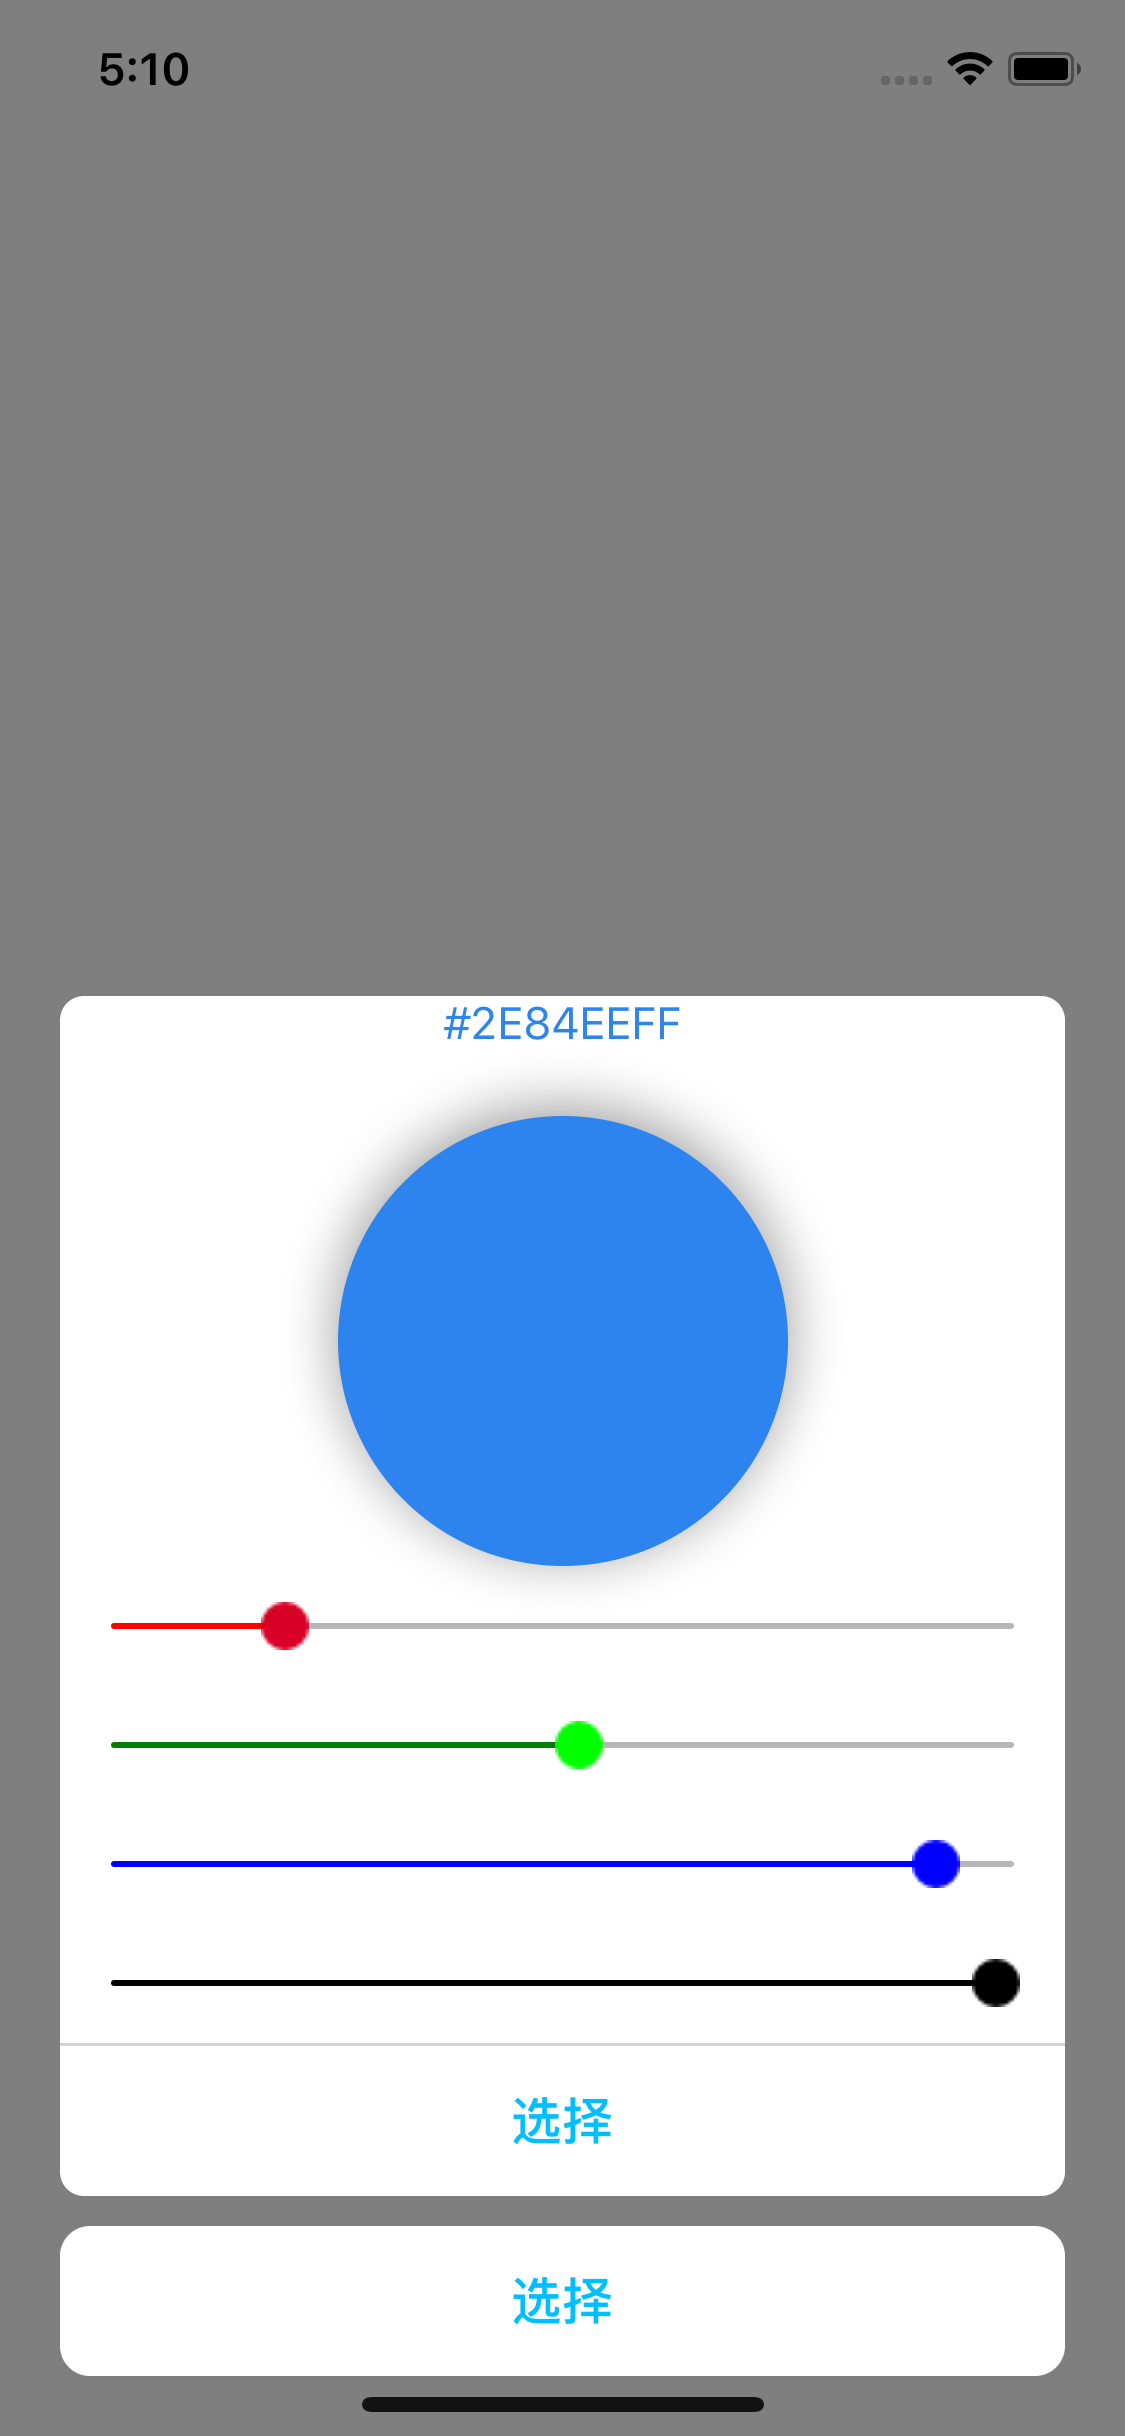
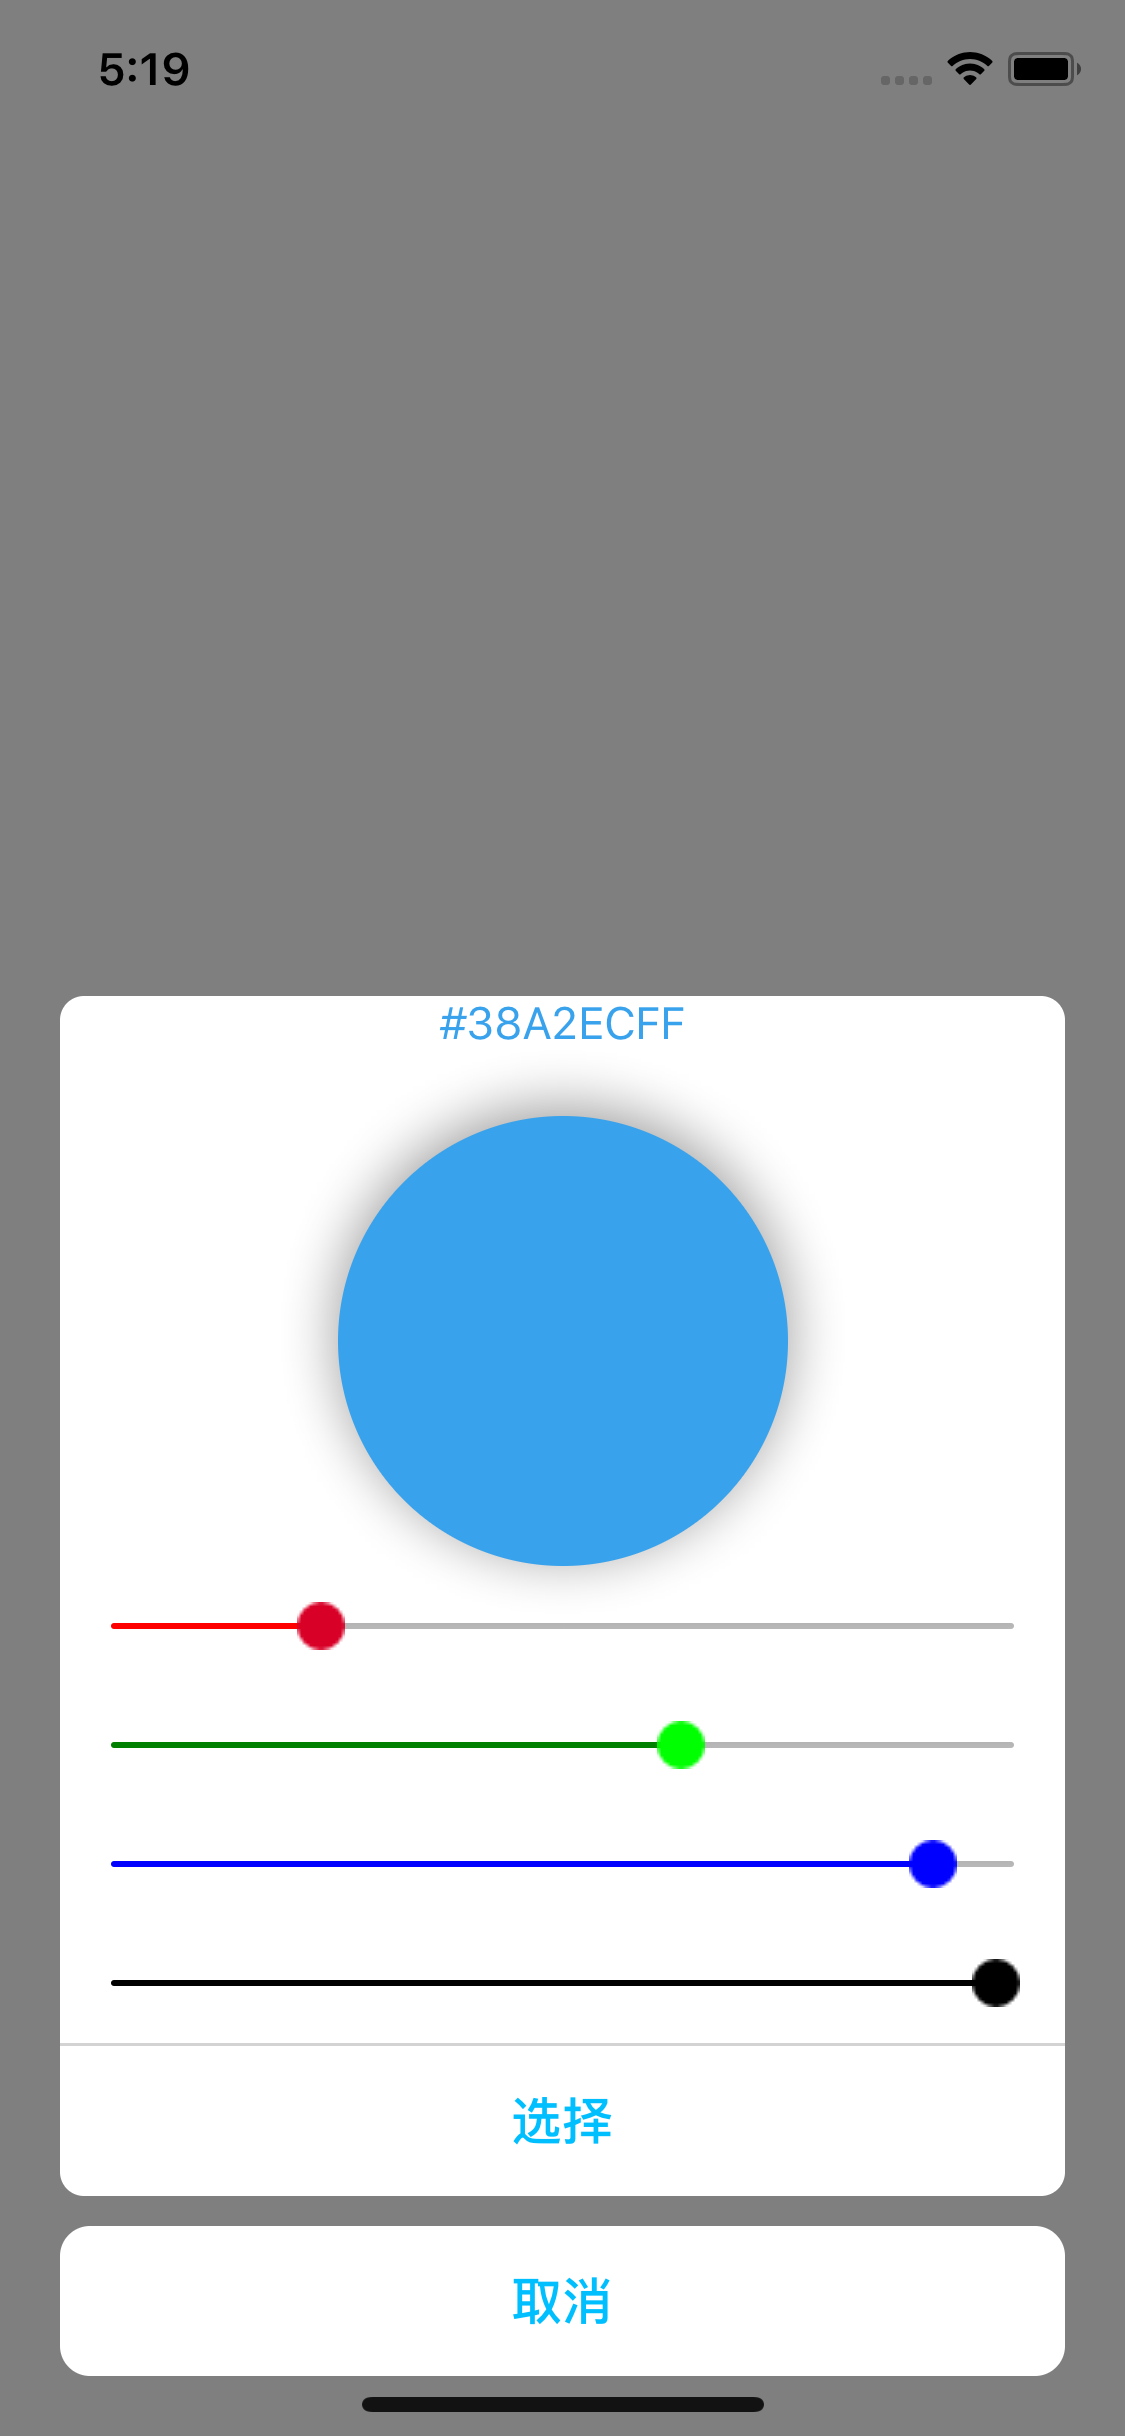
fixed '选择'

diff --git a/ColorPicker.js b/ColorPicker.js
@@ -21,7 +21,7 @@ export default class ColorPicker extends Component {
           useHex: useHex !== undefined ? useHex : true,
           onSelected,
           selectTitle: selectTitle !== undefined ? selectTitle : "选择",
-          cancelTitle: cancelTitle !== undefined ? cancelTitle : "选择"
+          cancelTitle: cancelTitle !== undefined ? cancelTitle : "取消"
         },
         () => this.content.show()
       );
